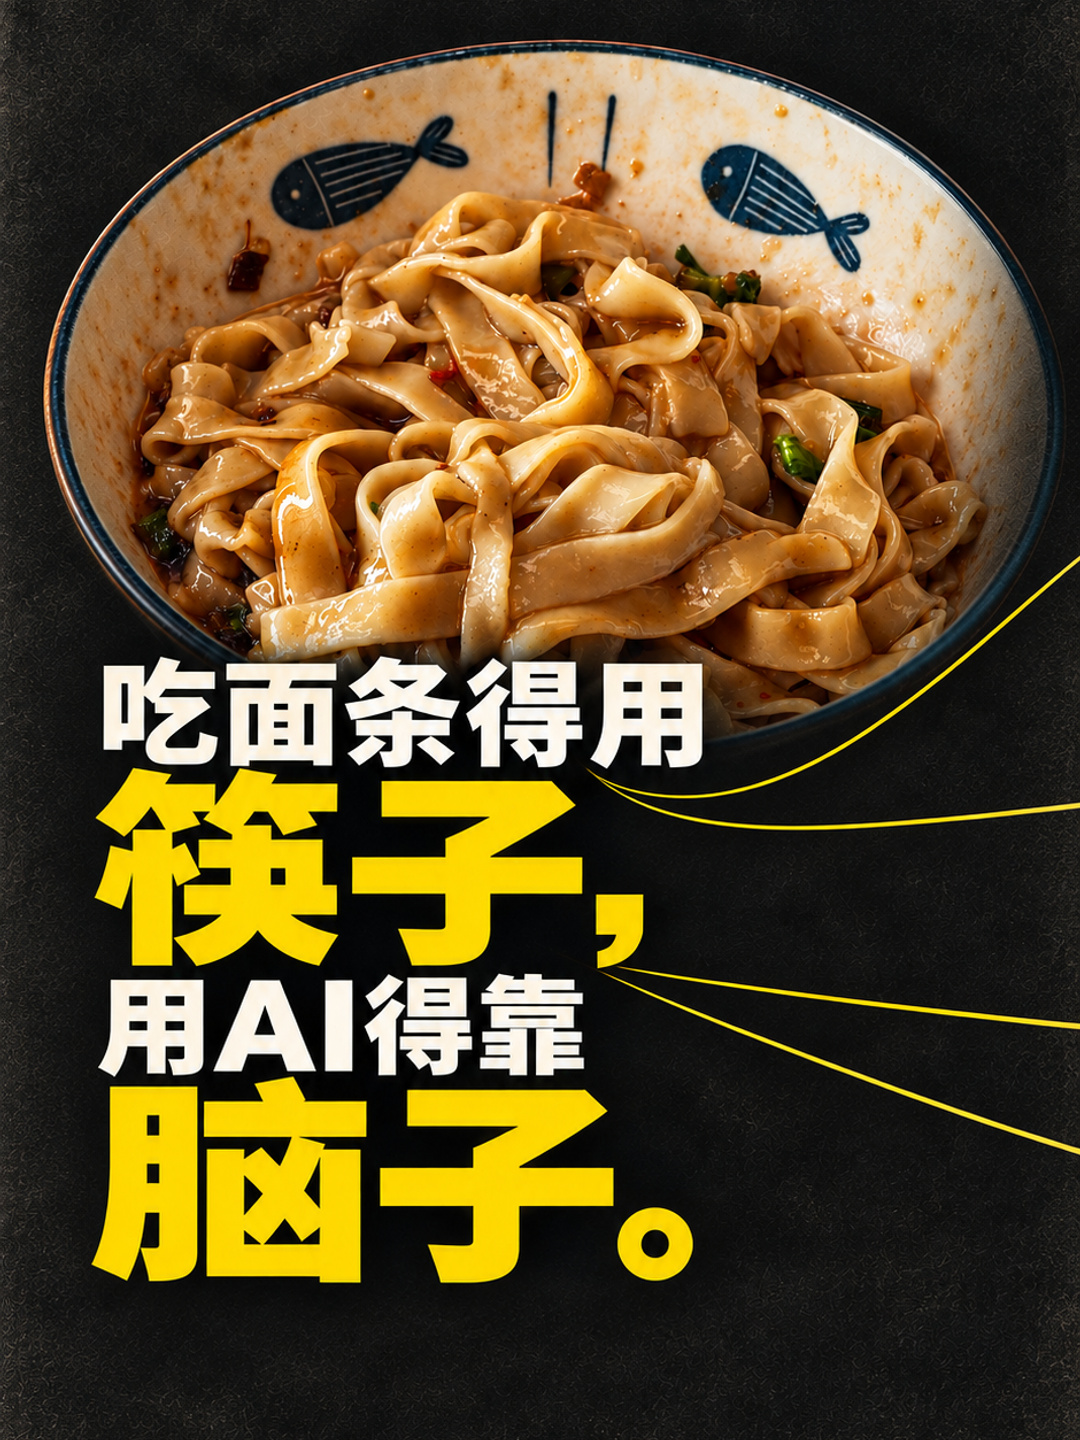
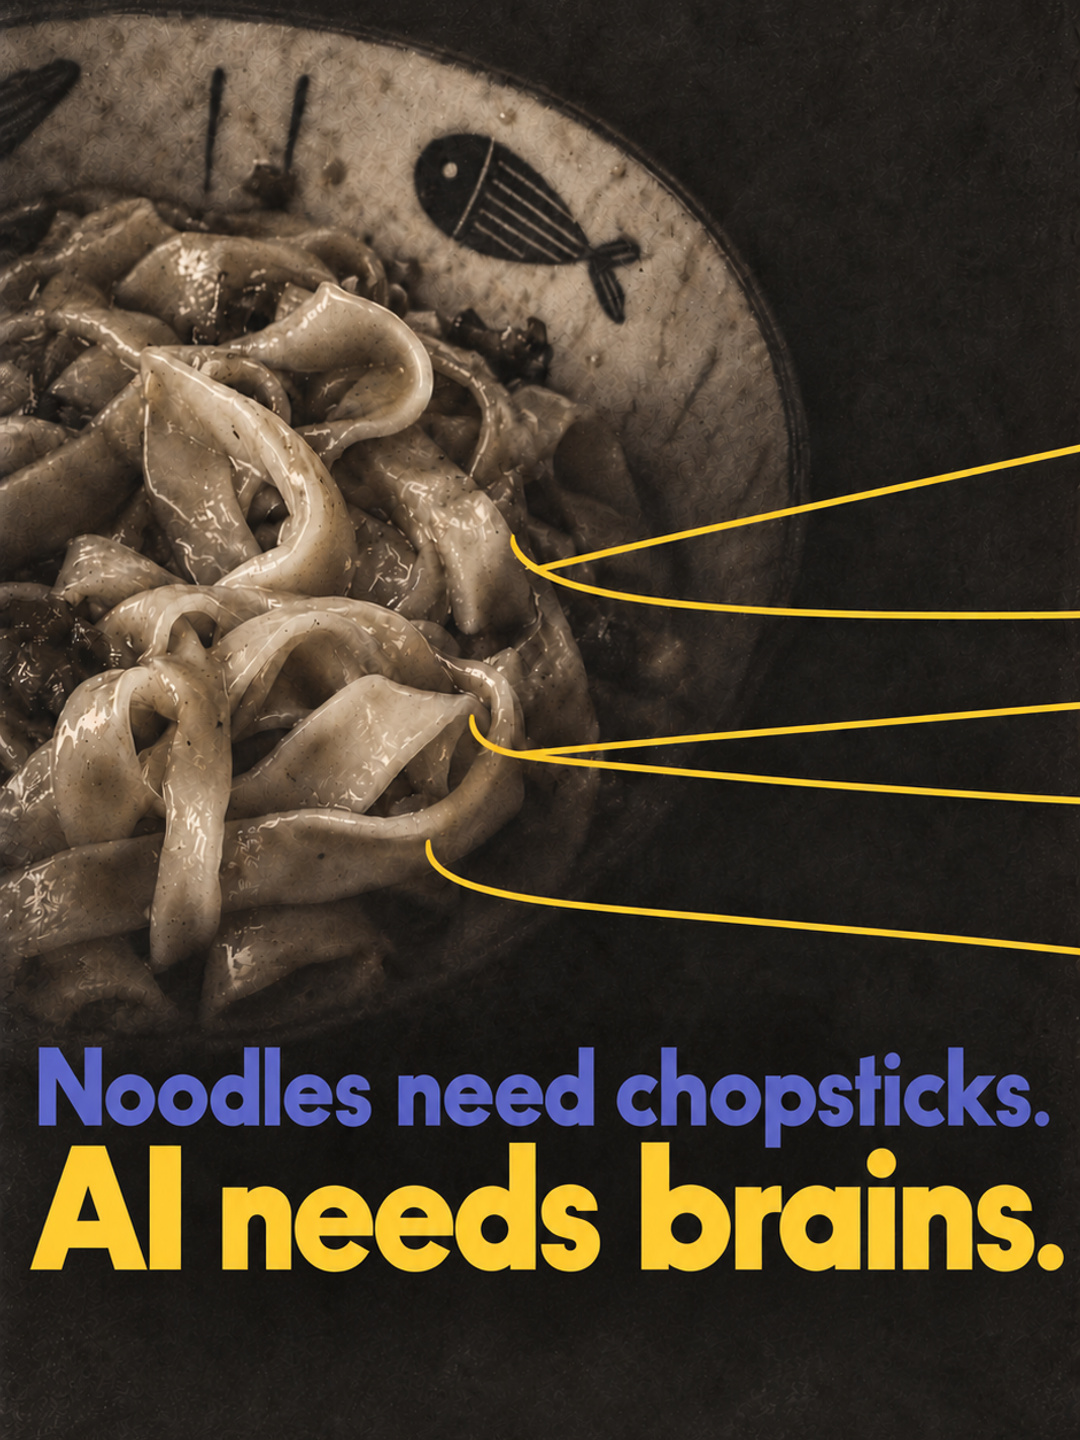
Require reference fidelity and default to English cover typography

diff --git a/SKILL.md b/SKILL.md
@@ -2,7 +2,7 @@
 name: douyin-reference-cover
 description: "根据用户的一张图片和封面文案，自动从随包的170张书籍海报参考图中选择一张，用图生图完成抖音封面。适用于这套私人海报库驱动的封面创作及其修改；不扩展为视频制作、文案策划或无参考的通用海报设计。"
 metadata:
-  version: "0.1.1"
+  version: "0.2.0"
 ---
 
 # 海报参考封面
@@ -13,8 +13,8 @@ metadata:
 
 - 视觉依据限定在本包的170张参考图。每次选一张作为主参考，实际看图后再生成；标签和风格名称仅用于检索，不能代替图片输入。用户指定库内编号时优先使用该张。
 - 用户图片提供主体，用户文案提供要传达的内容。保留主体身份、关键特征、真实界面和数据；不新增人物、产品、观点、卖点或故事。
-- 文案默认逐字使用，可断行、放大关键词、分层、换字体和颜色。不得擅自改写、删字、加标题、加口号、署名或行动号召。用户明确授权改文案时才改变文字。
-- 构图、色块、图形、纹理、字体气质可以围绕这张参考自由调整。让成品与选中的海报有可识别的构图和排字联系，并适应用户图片与中文文案。
+- 本用户的封面默认全英文。中文输入先忠实译成自然、简洁的英文，保留观点、语气和关键信息；不能扩写新卖点、删掉主旨或增加署名和行动号召。用户给出确定的英文文案时逐字使用，可断行、分层和调整字形。用户明确指定其他语言时以本次指定为准。聊天及Skill说明文档的语言不受封面语言限制。
+- 默认高度贴近选定参考的完整设计语言。以参考版式为底替换用户主体与文案，保留主体位置与裁切、明暗分布、留白、字体气质与层级、色彩面积关系、图形与主体的联系。适配画幅和文案语言所需的调整服务于这些关系；不自由改成另一套通用封面。用户明确要求自由改编时才降低贴近程度。详见[参考贴近与审美验收](references/reference-fidelity.md)。
 - 参考海报中的原文、品牌和人物，不自动成为新封面的信息。借用它的视觉组织方法时，以用户素材和文案为内容依据。
 - 默认交付一个完成版；不默认生成A/B、制作视频、写脚本、做其他平台版本或发布作品。用户要求这些额外内容时再处理。
 
@@ -35,7 +35,7 @@ metadata:
 选择时优先判断：
 - 图片能否成为参考构图中的主要视觉主体；
 - 文案能否在缩略观看时形成清晰的大小层级；
-- 能否借用参考中的至少两项具体特征，例如巨字与小主体的比例、主次标题位置、斜向组织、双色关系、图形穿插或网格。
+- 能否在用户内容和目标画幅中保留参考的整体构图、排字节奏、明暗和色彩比例，以及最有辨识度的主体与图形关系。只匹配颜色或两项装饰不足以选定该参考。
 
 不要为了匹配参考，给用户图片编造另一种主体。复杂拼版参考也只能使用用户这一张输入图，可用有意义的局部裁切或重复来构图，不能虚构多张案例截图。
 
@@ -43,16 +43,16 @@ metadata:
 
 读取 [图生图任务卡](references/generation.md)。将用户图片和选定海报同时交给当前可用的图像生成/编辑工具，明确各自角色。优先使用当前环境内置的图像工具；遵循该工具关于参考图片可见性、输入方式和保存结果的要求。
 
-在同一次生成中请求完成构图、图像处理和准确的中文文案。使用具体图片参考，不把任务简化为只写“复古”“瑞士风”等风格词。不要用HTML截图、SVG或代码绘制的海报替代用户要求的图生图成品。
+在同一次生成中请求完成构图、图像处理和准确的英文文案。参考图明确作为版式与整体审美的约束，用户图作为内容来源；先写清楚逐项对应关系再生成。使用具体图片参考，不把任务简化为只写“复古”“瑞士风”等风格词。不要用HTML截图、SVG或代码绘制的海报替代用户要求的图生图成品。
 
 人物图可以裁切、抠主体和调整融入方式，保持身份与表情的关键特征。对于界面截图，明确要求关键界面、文字与数字保持真实；若生成结果不能可靠保留，可用可用的合成工具将原截图放回设计位置，主体仍来自原图。除非任务确实需要且可用，否则不引入额外软件、账号、API Key或插件。
 
 ### 4. 检查、修正、交付
 
 查看生成图片本身，逐项检查：
-1. 文案与用户原文一致，无错字、漏字、多字和莫名英文；
+1. 封面只出现本次确定的英文文案，拼写和标点正确；核对其与输入原意一致，不能夹入中文、参考原文或额外词句。用户另指定语言时按指定检查；
 2. 主体仍是用户提供的主体，关键人脸、界面、数字没有被改成别的内容；
-3. 能看出与选定参考图的构图、排字或图形联系，且没有混入其他未经指定的风格；
+3. 将实际参考与成品并排查看，按[六项审美对照](references/reference-fidelity.md)检查整体贴近程度；主要构图、明暗氛围或排字关系偏离时直接修正，不能以同色、同线条或“更醒目”代替通过；
 4. 检查真实上传文件尺寸、3:4主页裁切与手机小图预览；完整文案和主要主体都可辨认，标题避开左下播放量区域。不能只检查9:16大图。
 
 发现问题时直接做有针对性的修正，保持已正确部分；不要重新向用户发起风格确认。首次结果之后最多做两轮针对性修正；仍有关键错误时如实说明具体问题，不能把有错字或假界面的图片称为完成版。

diff --git a/references/generation.md b/references/generation.md
@@ -6,7 +6,7 @@
 
 先查看用户图片和选定参考的完整图。缩略联系表用于选图，生成时传入选定参考文件本身。
 
-在内部明确用户图片中必须保留的主体、文案逐字原文、选定参考编号与文件、本次借用的构图与排字，以及为中文文案和用户主体需要做的适配。
+读取[参考贴近与审美验收](reference-fidelity.md)。在内部明确用户图片中必须保留的主体、输入原文、最终上图英文、选定参考编号与文件；逐项写出主体位置与尺度、明暗留白、排字、色彩比例、图形作用和氛围如何对应。先建立贴近参考的核心构图，再适配文案与平台画幅。封面默认全英文：中文先忠实翻译，不把中文原文也印到图片上；用户指定最终英文时保持原样。
 
 读取 [上传与展示构图规则](platform-framing.md)。提示词同时说明上传画布、主页可见裁切、标题安全区与左下播放量避让；平台界面示意图不属于创意素材。若首版不能守住安全区，先把完整内容排成3:4核心，再以相同背景向上下延展为9:16，不得为填满长图把标题重新拉到底部。
 
@@ -24,26 +24,26 @@
 图片1：用户提供的内容素材。
 必须保留：[具体主体、身份、表情或物体特征；截图中哪些真实信息需要准确保留]。
 
-图片2：参考海报 REF-[编号]，只从这张图建立视觉方向。
-本次具体借用：[标题与主体比例、文字位置、图形穿插方式、配色、字重/疏密等]。
-将参考里的视觉组织方法适配到图片1和以下中文文案，形成完整的新封面。
+图片2：参考海报 REF-[编号]，作为整体版式与审美约束。默认要求高贴近程度。
+逐项对应：[主体位置/尺度/裁切；暗亮分布与留白；标题位置/行数/字号关系/字体气质；主辅色面积；线条或图形怎样连接主体；摄影处理/纸感/氛围]。
+以参考的构图为底替换为图片1和以下英文文案，尽量保持整体视觉关系。适配画幅和文字长度，不重新发明通用封面排版。
 图片2的原文、原品牌和人物不能自动成为新封面的信息。
 
 封面文字，逐字使用：
-「[用户原文]」
+「[本次最终英文；用户已给英文时用其原文，否则忠实翻译]」
 允许断行、区分字重和字号；保持字序与文字内容。
 
 构图安排：[结合用户图片与参考海报，描述具体位置、大小与层级]。
 让主体与文案在缩略观看时仍可辨认；保留必要空间和画面边界。
 不添加新人物、新产品、新观点、新卖点、无关图标、额外文字或水印。
-保留用户主体，完成最终视觉与中文排字，输出一张完成版封面。
+保留用户主体，完成最终视觉与英文排字，输出一张完成版封面。封面中不出现中文及参考图原文。
 ```
 
 ## 对应修正
 
 - 错字：指出错误位置，给出准确原文，要求仅修正文字并保留已正确构图。
 - 主体走样：重新提供原图，明确恢复哪些身份特征或真实界面信息。
-- 参考联系不足：指出参考中本次应保留的两项具体视觉关系，修正对应部分，不增加新的风格参考。
+- 参考联系不足：并排找出具体偏离项，修正主体/留白、明暗、排字、色彩比例及图形作用等实际关系；不能只补几条线或同色装饰。不增加新的风格参考。
 - 信息太小或主体被遮住：调整主体与标题比例、断行和局部位置；保持文案原文和既定方向。
 
 如果只有某段排字失败，可以使用当前可用的局部编辑/合成能力修复。没有可靠能力时说明具体限制，不用人工臆造界面或错误文字充当完成版。

diff --git a/references/reference-fidelity.md b/references/reference-fidelity.md
@@ -1,0 +1,38 @@
+# 高贴近程度的参考迁移
+
+用户明确要求参考发挥实质作用。默认目标是看得出沿用哪张海报的完整设计语言。颜色、纹理和装饰相同，不能单独证明达到要求。
+
+## 生成前的对应关系
+
+看实际海报，记录六项，再说明用户内容分别如何占据这些角色。只有其中适用于该参考的具体特征才成为约束，不能把REF-021的低饱和或两行排字推广到全库。
+
+| 维度 | 需要明确的具体关系 |
+| --- | --- |
+| 构图 | 主体重心、画面占比、裁切方式、图文位置、留白方向与面积 |
+| 氛围与明暗 | 主体和背景谁亮、反差分布、影调、印刷/摄影质感、克制或强烈的程度 |
+| 排字 | 标题落点、行数与行长、横向/纵向组织、字重字距、主次字号和对齐 |
+| 色彩 | 主辅色角色、饱和度与亮度、各色面积，不能只有色相接近 |
+| 视觉冲突与意境 | 写实与抽象、粗与细、实与虚怎样形成联系；图形为何存在、与主体在哪接触 |
+| 整体美感 | 图像、字与图形是否共同组织成一个整体，是否滑向未经指定的通用广告模板 |
+
+主体身份和用户文案的意思必须保留，默认使用忠实的英文译文；已确定的英文保持原样。为了贴近参考可做影调、去饱和、裁切、纸感等处理，不要求维持内容照片原始光线和饱和度；用户要求保留原色时以用户要求为准。参考中的人物、品牌、原文仍不得混入成品。
+
+## 画幅适配
+
+参考横版、目标竖版时，不可能维持所有绝对坐标。保持视觉重心、图文顺序、方向性、相对占比和留白作用，再调整间距或行长。不要把横向文字基座自动变成四行巨字。先做适合主页可见区的完整核心，再延展上下背景；每次编辑和导出都复核，避免尺寸适配改变已正确的设计关系。
+
+## 实图验收
+
+把参考与实际成品同时打开，按六项逐一用画面证据判断。文字与尺寸合格后，还须完成审美验收。对明显偏离的关键项先修正，不能因为颜色和装饰相似就宣称完成，也不虚构相似度百分比。
+
+若相似度与内容可读性存在冲突，先通过行长、字号、裁切或留白微调解决。确实无法兼顾时说明具体约束，不默默改成另一种风格。
+
+## REF-021的实际纠偏
+
+这张参考的特征是：低饱和灰黑摄影主体偏左；右侧暗部中，细黄线贴着手指转折向右延伸；底部是蓝紫辅字和黄色主标题的横向基座；影调和纸感克制粗粝。
+
+面条封面的失败版本用了居中明亮的整碗面、强白字与高亮黄字、四行纵向堆叠和没有明确连接作用的曲线。虽然出现相近颜色和线条，其构图、氛围、排字、色彩比例和图形逻辑均偏离参考，不能作为高贴近迁移的合格案例。
+
+修正应让用户面条的灰调摄影局部承担左侧主体角色，用面条转折承接细线，恢复底部横向排字和蓝紫/黄的主辅关系。实际是否达到仍须并排看成品，不以提示词已经写到为凭。
+
+本用户在纠偏过程中进一步指定封面全英文。此例最终文案为“Noodles need chopsticks.”和“AI needs brains.”；英文有助于沿用参考的横向字形节奏，但文字语言本身不能替代上述审美验收。

diff --git a/README.md b/README.md
@@ -2,11 +2,15 @@
 
 **一张图片 + 一段文案 → 一张有海报排版依据的抖音封面。**
 
-`douyin-reference-cover` 是一个 Codex Skill：自动从随包的 **170 张书籍海报参考图**中选一张，将用户图片与该参考一起用于图生图，再检查中文文案和抖音主页裁切。当前版本 **0.1.1**。
+`douyin-reference-cover` 是一个 Codex Skill：自动从随包的 **170 张书籍海报参考图**中选一张，将用户图片与该参考一起用于图生图，默认制作全英文封面，并检查文案、整体参考贴近程度和抖音主页裁切。当前版本 **0.2.0**。
 
 ## 实际示例
 
 输入：一张面条照片，以及「吃面条得用筷子，用AI得靠脑子。」
+
+最终英文：**Noodles need chopsticks. / AI needs brains.**
+
+沿用REF-021的灰调摄影、偏左主体与右侧留白、底部蓝紫/黄两级横向排字，以及从主体转折处引出的细线。
 
 | 本次海报参考 REF-021 | 成品在主页中的裁切预览 |
 | --- | --- |
@@ -24,7 +28,11 @@
 
 Skill 自动选参考、完成封面并交付上传母版和同一设计的主页裁切预览。也可以指定「这次用 REF-021」。无需每次先选风格或填写设计问卷。
 
-文案默认原样使用，允许调整断行和关键词层级。参考海报中的品牌、人物和外文不自动带入成品。范围限定为这套参考库驱动的封面制作及修改。
+封面默认全英文：中文输入忠实翻译，确定的英文逐字使用，允许调整断行和文字层级；用户明确指定其他语言时按指定。参考海报中的品牌、人物和外文不自动带入成品。范围限定为这套参考库驱动的封面制作及修改。
+
+## 参考的贴近程度
+
+默认以选定海报为版式与整体审美依据，替换主体和文案。逐项对照构图、明暗氛围、排字、色彩面积、图形与主体关系及整体美感；只出现同色和类似装饰不能通过验收。适配画幅时保留这些关系，不自动套用通用短视频大字模板。详见 [参考贴近与审美验收](references/reference-fidelity.md)。
 
 ## 上传与主页展示
 
@@ -73,4 +81,4 @@ python scripts/check_framing.py cover.png --out-dir framing-check
 - Skill 结构校验通过；170张单图、6张总览图均完成解码与相对路径检查。
 - 检索脚本的编号、标签、总览与无效编号处理通过。
 - 裁切脚本验证了正常构图、标题出框、左下覆盖和非默认尺寸的识别。
-- 已完成本页实际图生图示例，并目视核对文案、1080×1920母版和3:4小图。未执行线上发布。
+- 已完成本页实际图生图示例，并目视核对英文文案、参考视觉关系、1080×1920母版和3:4小图。未执行线上发布。
